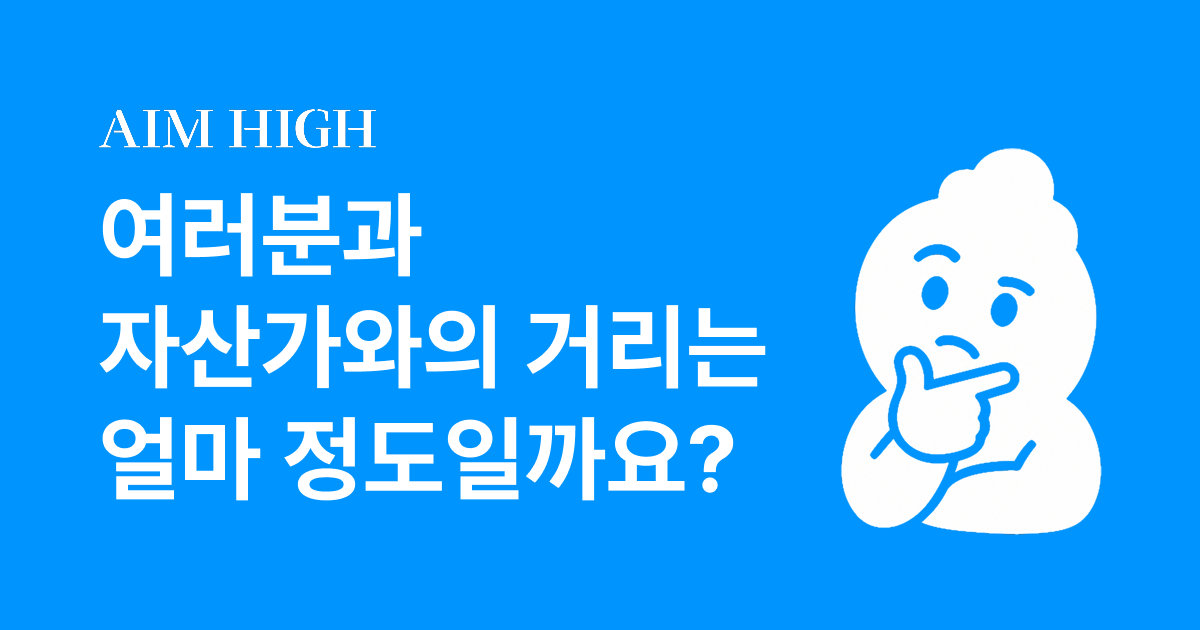
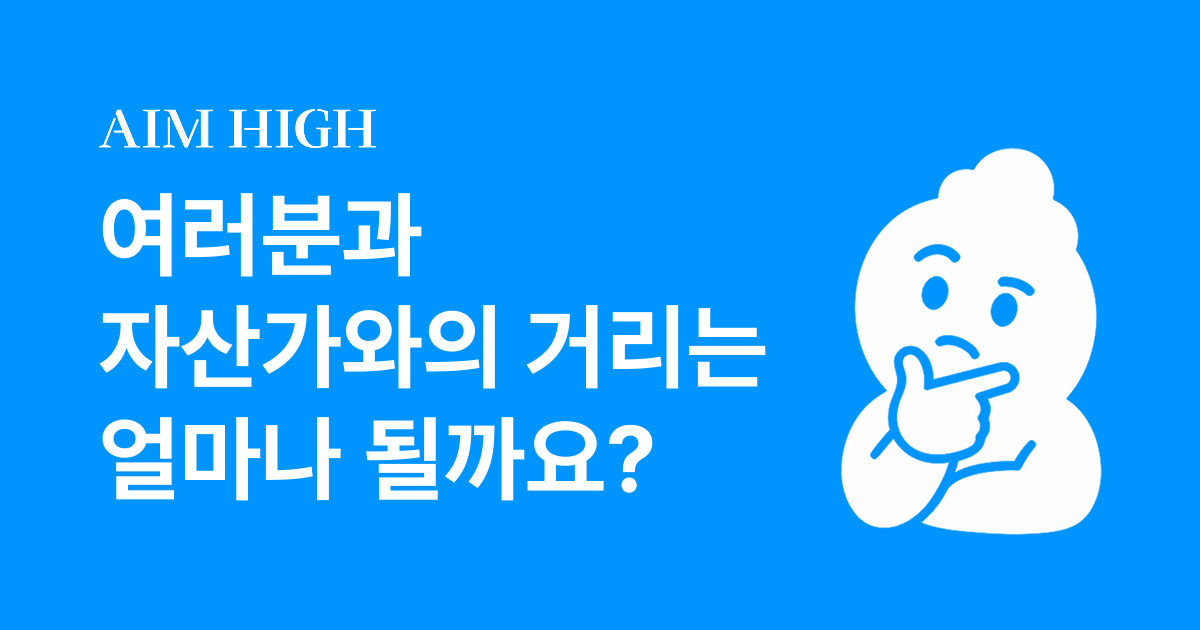
Add files via upload

Changed region(s): [[0.2158, 0.6635, 0.6167, 0.8143]]

diff --git a/index.html b/index.html
@@ -6,7 +6,7 @@
 <title>AIM HIGH × RICH DIVINE — 깜짝 이벤트</title>
 <meta property="og:type"         content="website">
 <meta property="og:url"          content="https://fsc-git.github.io/RD-Quiz-Event-0624/">
-<meta property="og:title"        content="여러분과 자산가와의 거리는 얼마 정도일까요?">
+<meta property="og:title"        content="여러분과 자산가와의 거리는 얼마나 될까요?">
 <meta property="og:description"  content="전 문항을 맞추시면 특별한 선물의 기회를 드립니다!">
 <meta property="og:image"        content="https://fsc-git.github.io/RD-Quiz-Event-0624/thumbnail.png">
 <meta property="og:image:width"  content="1200">
@@ -353,7 +353,7 @@
 
     <!-- SCREEN 1: INTRO -->
     <section class="screen active" id="screen-intro">
-      <h1 class="title">여러분과 자산가와의 거리는<br><span class="accent">얼마 정도일까요?</span></h1>
+      <h1 class="title">여러분과 자산가와의 거리는<br><span class="accent">얼마나 될까요?</span></h1>
       <p class="subtitle">당신은 고액 자산가들이 무엇을 원하는지 얼마나 알고 계신가요?<br><b>전 문항을 맞추시면 특별한 선물의 기회를 드립니다!</b></p>
 
       <div class="rules">